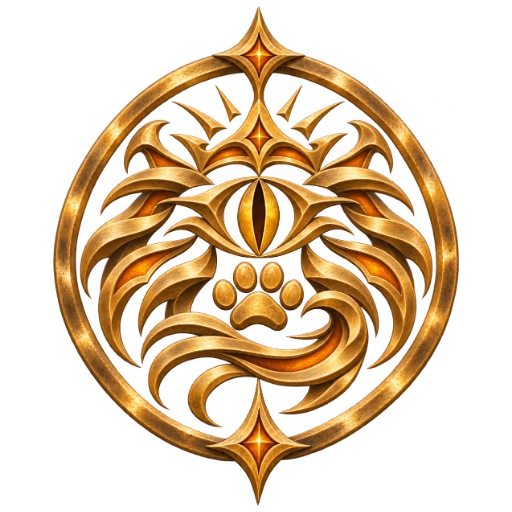
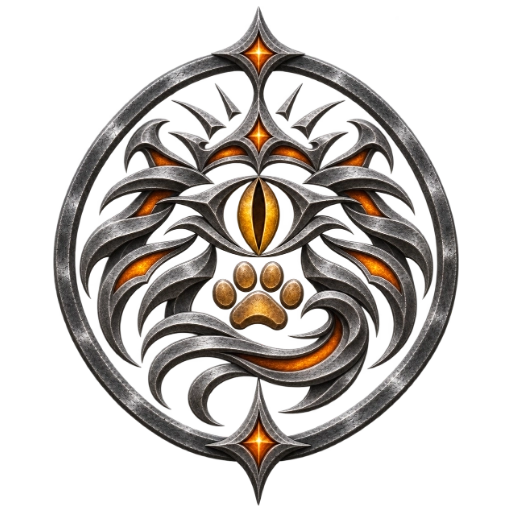
art(raças): atualiza os cinco ícones do Tabaxi

diff --git a/client/public/race-icons/ORIGEM.md b/client/public/race-icons/ORIGEM.md
@@ -1,5 +1,5 @@
 # Ícones raciais
 
-`Tabaxi.zip` fornece Tabaxi e as linhagens Leão, Leopardo, Pantera e Tigre. As cinco artes foram normalizadas proporcionalmente em 512px, preservando transparência e cores. O nome de Leão no ZIP teve sua codificação normalizada para `tabaxi_leao`. Este acréscimo é independente da repaginada visual do wizard.
+`Tabaxi.zip` fornece Tabaxi e as linhagens Leão, Leopardo, Pantera e Tigre. As cinco artes foram normalizadas proporcionalmente em 512px, preservando transparência e cores. O nome de Leão no ZIP teve sua codificação normalizada para `tabaxi_leao`. Este acréscimo é independente da repaginada visual do wizard. As cinco artes foram substituídas pela nova versão de `Tabaxi.zip` enviada em 17/11/2026, mantendo as associações, o alfa original e a normalização proporcional em 512px.
 
 `Icones de raça(spirithost e mandrake).zip` fornece Spirithost, Mandrágora e as quatro estações. As seis artes foram normalizadas proporcionalmente em 512px, preservando transparência, cores e efeitos internos. Os nomes de Verão e Inverno tiveram a codificação/espaço normalizados. Este acréscimo é independente da repaginada visual.
